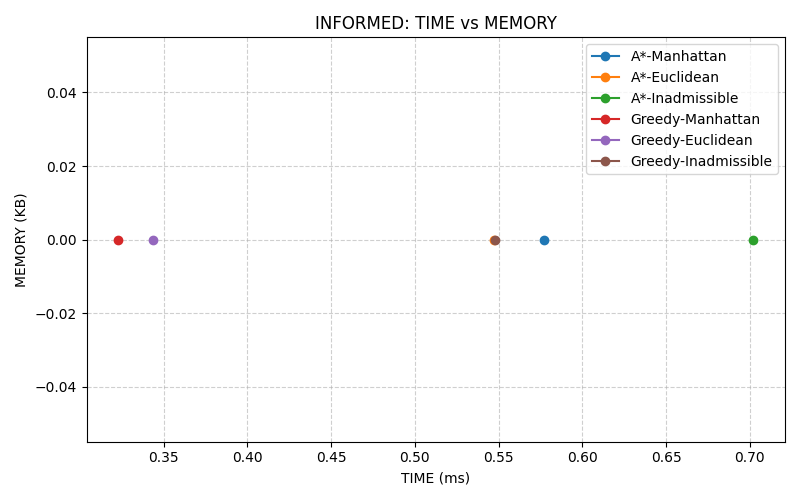
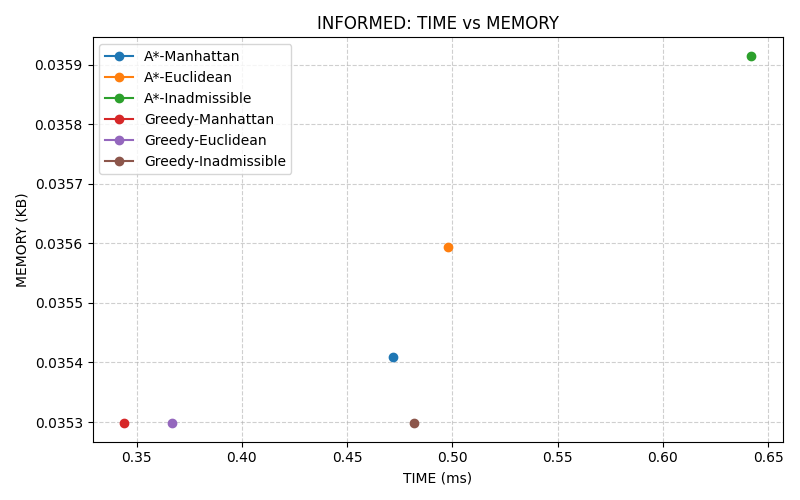
Update README and metrics; fix heuristic function and clean maze representation

diff --git a/trabalho1/src/core/heuristics.py b/trabalho1/src/core/heuristics.py
@@ -10,6 +10,6 @@ def h_manhattan_distance(a: Pos, b: Pos) -> float:
 def h_euclidean_distance(a: Pos, b: Pos) -> float:
     return ((a[0] - b[0]) ** 2 + (a[1] - b[1]) ** 2) ** 0.5
 
-# INADMISSIBLE HEURISTIC (2 / MANHATTAN DISTANCE)
+# INADMISSIBLE HEURISTIC (9 TIMES THE DIFFERENCE OF LINE COORDINATES)
 def h_inadmissible(a: Pos, b: Pos) -> float:
-    return 2/h_manhattan_distance(a, b) if h_manhattan_distance(a, b) != 0 else 0
+    return abs(a[0] - a[1]) * 9

diff --git a/trabalho1/src/core/maze_representation.py b/trabalho1/src/core/maze_representation.py
@@ -87,8 +87,3 @@ class Maze:
                 if self.passable((r, c)):
                     graph[(r, c)] = self.neighbors_coords((r, c))
         return graph
-
-    # PRINTS THE MAZE IN A READABLE FORMAT
-    def pretty_print(self):
-        for row in self.grid:
-            print(''.join(row))

diff --git a/trabalho1/README.md b/trabalho1/README.md
@@ -31,7 +31,7 @@ Neste repositório você encontrará o código fonte do projeto, bem como os dad
 De uma forma compacta e organizada, os arquivos e diretórios estão dispostos da seguinte forma:
 
   ```.
-ai-trabalhos/
+ia-trabalhos/
 └── trabalho1/
     ├── data/
     │   ├── input/
